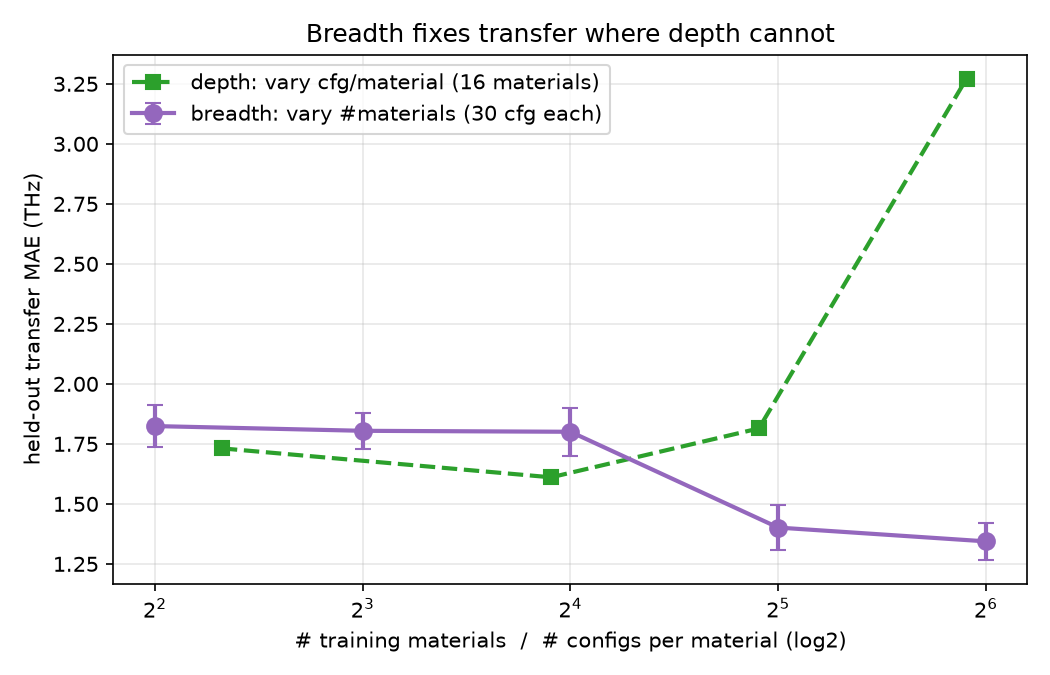
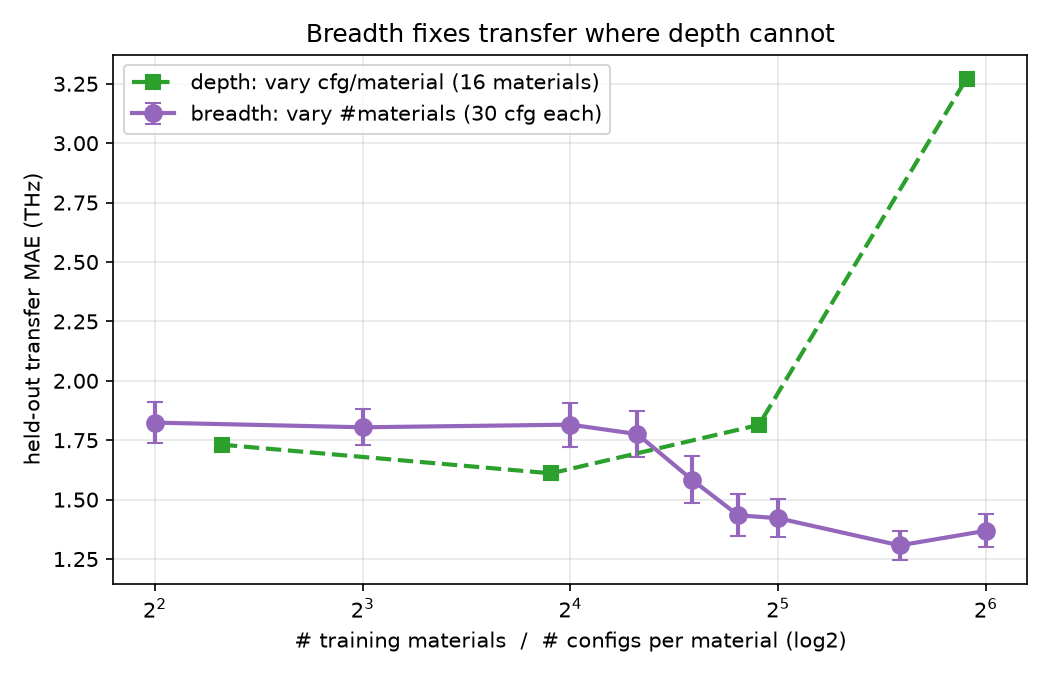
Round-2: breadth threshold pinned (plateau<=20, knee ~20-24, drop to ~1.3 @ N=48). Progress report + roadmap pointer

diff --git a/scripts/plot_campaign.py b/scripts/plot_campaign.py
@@ -20,7 +20,12 @@ import pandas as pd
 R = Path(__file__).resolve().parents[1] / "results" / "ablation"
 OUT = Path(__file__).resolve().parents[1] / "results" / "figures"
 OUT.mkdir(parents=True, exist_ok=True)
-NMAT = {"B4": 4, "B8": 8, "B16": 16, "B32": 32, "B64": 64}
+NMAT = {"B4": 4, "B8": 8, "B16": 16, "B20": 20, "B24": 24, "B28": 28, "B32": 32, "B48": 48, "B64": 64}
+
+
+def breadth_jobs(key):
+    """all seed runs present for a breadth set, e.g. br_B16_s1..s5"""
+    return sorted(p.stem.replace("eval_", "") for p in R.glob(f"eval_br_{key}_s*.csv"))
 
 
 def metrics(job):
@@ -47,7 +52,7 @@ def agg(jobs):
 fig, ax = plt.subplots(figsize=(7, 4.5))
 xs, ys, es = [], [], []
 for key, n in NMAT.items():
-    a = agg([f"br_{key}_s{s}" for s in (1, 2, 3)])
+    a = agg(breadth_jobs(key))
     if a:
         xs.append(n); ys.append(a[0]); es.append(a[1])
 if xs:
